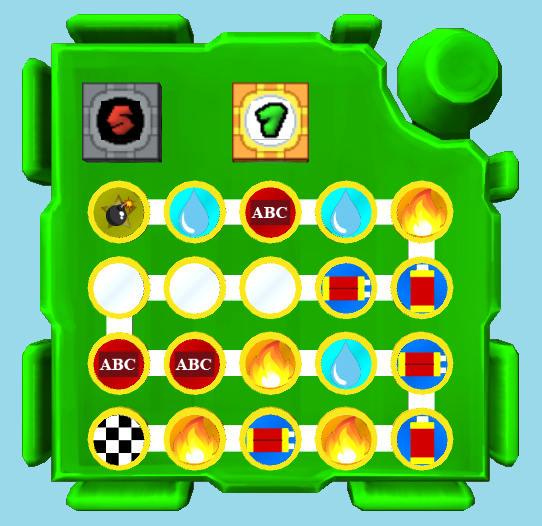
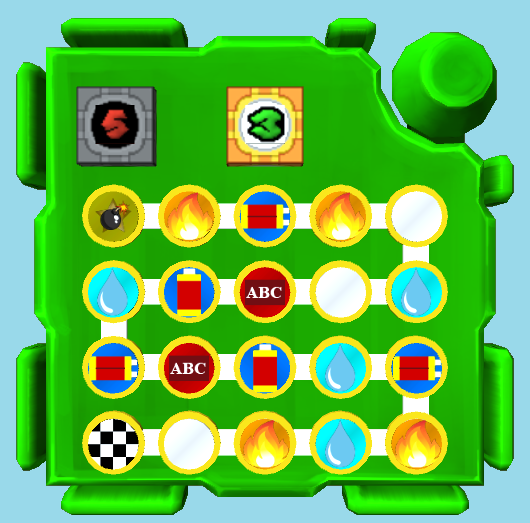
TP support / Blend unlit to spaces

diff --git a/Assets/PartyTime.cs b/Assets/PartyTime.cs
@@ -2,6 +2,7 @@
 using System;
 using System.Collections.Generic;
 using System.Linq;
+using System.Text.RegularExpressions;
 using UnityEngine;
 using KMBombInfoHelper;
 
@@ -15,28 +16,26 @@ public class PartyTime : MonoBehaviour {
 	public KMBombInfo BombInfo;
 	public KMAudio BombAudio;
 
-	public Texture2D[] diceNum = new Texture2D[7];
-	public Texture2D[] screenNum = new Texture2D[7];
-	public Texture2D[] spaceTexA = new Texture2D[0];
-	public Texture2D[] spaceTexB = new Texture2D[0];
+	public Texture2D[] diceNum = new Texture2D [7];
+	public Texture2D[] screenNum = new Texture2D [7];
+	public Texture2D[] spaceTexA = new Texture2D [0];
+	public Texture2D[] spaceTexB = new Texture2D [0];
 
-	int batCountD = 0;
-	int batCountAA = 0;
-	int indCount = 0;
-	bool landedBat = false;
-	bool reverseMove = false;
+	int batCountD, batCountAA, indCount;
+	bool landedBat, reverseMove;
 
-	int[] nowSpcTex = new int[20];
-	int[] isSpcT = new int[20];
+	int[] nowSpcTex = new int [20];
+	int[] isSpcT = new int [20];
 
 	int canRoll = 5;
 	bool ranDoNum = true;
-	int prevNumber = 0;
-	int nowSpace = 0;
-	int moveTimer = 0;
-	bool pressDice = false;
+	int prevNumber, nowSpace, moveTimer;
+	bool pressDice;
 
-	bool moduleSolved = false;
+	List<int> tpDie = new List<int> ();
+	List<int> tpSpaces = new List<int> ();
+
+	bool moduleSolved;
 
 	static int moduleIdCounter = 1;
 	int moduleId;
@@ -52,16 +51,16 @@ public class PartyTime : MonoBehaviour {
 		Debug.LogFormat (@"[Party Time #{0}] AA Battery spaces advance {1} spaces.", moduleId, Mathf.Clamp (batCountAA, 0, 6));
 		Debug.LogFormat (@"[Party Time #{0}] Indicator spaces regress {1} spaces.", moduleId, Mathf.Clamp (indCount, 0, 6));
 
-		Spaces [0].transform.GetChild (0).gameObject.GetComponent <Renderer> ().material.SetTexture ("_MainTex", spaceTexB [0]);
+		Spaces [0].transform.GetChild (0).GetComponent<Renderer> ().material.SetTexture ("_MainTex", spaceTexB [0]);
 		nowSpcTex [0] = 0;
-		Spaces [19].transform.GetChild (0).gameObject.GetComponent <Renderer> ().material.SetTexture ("_MainTex", spaceTexA [7]);
+		Spaces [19].transform.GetChild (0).GetComponent<Renderer> ().material.SetTexture ("_MainTex", spaceTexA [7]);
 		nowSpcTex [19] = 7;
 
-		int currSpcBatD = 0;
-		int currSpcBatAA = 0;
-		int currSpcInd = 0;
-		int currSpcWat = 0;
-		int currSpcFire = 0;
+		var currSpcBatD = 0;
+		var currSpcBatAA = 0;
+		var currSpcInd = 0;
+		var currSpcWat = 0;
+		var currSpcFire = 0;
 
 		for (int i = 1; i < Spaces.Length - 1; i++) {
 			int chooseTex = -1;
@@ -117,7 +116,7 @@ public class PartyTime : MonoBehaviour {
 				}
 			}
 
-			Spaces [i].transform.GetChild (0).gameObject.GetComponent <Renderer> ().material.SetTexture ("_MainTex", spaceTexA [chooseTex]);
+			Spaces [i].transform.GetChild (0).GetComponent<Renderer> ().material.SetTexture ("_MainTex", spaceTexA [chooseTex]);
 
 			nowSpcTex [i] = chooseTex;
 		}
@@ -125,17 +124,17 @@ public class PartyTime : MonoBehaviour {
 		Debug.LogFormat (@"[Party Time #{0}] There are {1} Water spaces.", moduleId, currSpcWat - (currSpcWat == 5 ? 1 : 0));
 		Debug.LogFormat (@"[Party Time #{0}] There are {1} Fire spaces.", moduleId, currSpcFire - (currSpcFire == 5 ? 1 : 0));
 
-		object[] logLetters = new object[21];
+		object[] logLetters = new object [21];
 
 		logLetters [0] = moduleId;
 
 		for (int i = 0; i < Spaces.Length; i++) {
 			isSpcT [i] = -1;
-			int leftSpc = i - 1;
-			int rightSpc = i + 1;
-			int calcSpc = (((i % 5) * 2) + 1);
-			int upSpc = i - calcSpc;
-			int downSpc = i + 10 - calcSpc;
+			var leftSpc = i - 1;
+			var rightSpc = i + 1;
+			var calcSpc = (((i % 5) * 2) + 1);
+			var upSpc = i - calcSpc;
+			var downSpc = i + 10 - calcSpc;
 
 			if (nowSpcTex [i] == 5) {
 				if ((currSpcFire >= 3 && currSpcWat < 3) || (nowSpcTex [leftSpc] == 2 || nowSpcTex [leftSpc] == 3) || (nowSpcTex [rightSpc] == 2 || nowSpcTex [rightSpc] == 3) || (nowSpcTex [Mathf.Clamp (upSpc, 0, 19)] == 2 || nowSpcTex [Mathf.Clamp (upSpc, 0, 19)] == 3) || (nowSpcTex [Mathf.Clamp (downSpc, 0, 19)] == 2 || nowSpcTex [Mathf.Clamp (downSpc, 0, 19)] == 3)) {
@@ -156,16 +155,11 @@ public class PartyTime : MonoBehaviour {
 			if (nowSpcTex [i] == 5 || nowSpcTex [i] == 6) {
 				Debug.LogFormat (@"[Party Time #{0}] Space #{1} is {2}.", moduleId, i, isSpcT [i] == 1 ? "correct" : "incorrect");
 			}
-
-			/*string[] spcLetter = new string[7] { "S", "B", "A", "I", "W", "F", "G", "/X", "/N", "/Y" };
-			 
-			logLetters [i + 1] = spcLetters [nowSpcTex [i]] + spcLetters [isSpcT [i] + 8];*/
 		}
-
-		//Debug.LogFormat (@"[Party Time #{0}]\n ({1})-({2})-({3})-({4})-({5})\n({10})-({9})-({8})-({7})-({6})\n({11})-({12})-({13})-({14})-({15})\n({20})-({19})-({18})-({17})-({16})", logLetters);
 
 		Dice.OnInteract += delegate() {
 			onDicePress ();
+
 			return false;
 		};
 
@@ -174,6 +168,7 @@ public class PartyTime : MonoBehaviour {
 
 			Spaces [i].OnInteract += delegate () {
 				onSpacePress (j);
+
 				return false;
 			};
 		}
@@ -188,8 +183,7 @@ public class PartyTime : MonoBehaviour {
 			} while (rngNumber == prevNumber);
 
 			prevNumber = rngNumber;
-
-			Dice.transform.GetChild (0).gameObject.GetComponent <Renderer> ().material.SetTexture ("_MainTex", diceNum [rngNumber]);
+			Dice.transform.GetChild (0).GetComponent<Renderer> ().material.SetTexture ("_MainTex", diceNum [rngNumber]);
 		} else {
 			if (moveTimer == 20) {
 				if (prevNumber == 0) {
@@ -235,12 +229,12 @@ public class PartyTime : MonoBehaviour {
 						break;
 					}
 
-					Dice.transform.GetChild (0).gameObject.GetComponent <Renderer> ().material.SetTexture ("_MainTex", diceNum [prevNumber]);
+					Dice.transform.GetChild (0).GetComponent<Renderer> ().material.SetTexture ("_MainTex", diceNum [prevNumber]);
 				} else {
 					if (nowSpace < 19) {
-						Spaces [nowSpace].transform.GetChild (0).gameObject.GetComponent <Renderer> ().material.SetTexture ("_MainTex", spaceTexA [nowSpcTex [nowSpace]]);
-						nowSpace += reverseMove == false ? 1 : -1;							
-						Spaces [nowSpace].transform.GetChild (0).gameObject.GetComponent <Renderer> ().material.SetTexture ("_MainTex", spaceTexB [nowSpcTex [nowSpace]]);
+						Spaces [nowSpace].transform.GetChild (0).GetComponent<Renderer> ().material.SetTexture ("_MainTex", spaceTexA [nowSpcTex [nowSpace]]);
+						nowSpace += (!reverseMove) ? 1 : -1;
+						Spaces [nowSpace].transform.GetChild (0).GetComponent<Renderer> ().material.SetTexture ("_MainTex", spaceTexB [nowSpcTex [nowSpace]]);
 
 						if (nowSpace != 0) {
 							prevNumber--;
@@ -250,7 +244,7 @@ public class PartyTime : MonoBehaviour {
 							reverseMove = false;
 						}
 
-						Dice.transform.GetChild (0).gameObject.GetComponent <Renderer> ().material.SetTexture ("_MainTex", diceNum [prevNumber]);
+						Dice.transform.GetChild (0).GetComponent<Renderer> ().material.SetTexture ("_MainTex", diceNum [prevNumber]);
 
 						if (nowSpcTex [nowSpace] != 5 && nowSpcTex [nowSpace] != 6) {
 							moveTimer = 0;
@@ -275,18 +269,28 @@ public class PartyTime : MonoBehaviour {
 				Debug.LogFormat (@"[Party Time #{0}] Module solved!", moduleId);
 				moduleSolved = true;
 			}
+		} else {
+			if (tpDie.Contains (nowSpace)) {
+				onDicePress ();
+				tpDie.Remove (nowSpace);
+			}
+
+			if (tpSpaces.Contains (nowSpace)) {
+				onSpacePress (nowSpace);
+				tpSpaces.Remove (nowSpace);
+			}
 		}
 	}
 
 	void stopMoving () {
 		if (nowSpace != 19) {
 			if (canRoll == 0) {
-				Spaces [nowSpace].transform.GetChild (0).gameObject.GetComponent <Renderer> ().material.SetTexture ("_MainTex", spaceTexA [nowSpcTex [nowSpace]]);
+				Spaces [nowSpace].transform.GetChild (0).GetComponent<Renderer> ().material.SetTexture ("_MainTex", spaceTexA [nowSpcTex [nowSpace]]);
 				nowSpace = 0;
-				Spaces [nowSpace].transform.GetChild (0).gameObject.GetComponent <Renderer> ().material.SetTexture ("_MainTex", spaceTexB [nowSpcTex [nowSpace]]);
+				Spaces [nowSpace].transform.GetChild (0).GetComponent<Renderer> ().material.SetTexture ("_MainTex", spaceTexB [nowSpcTex [nowSpace]]);
 
 				canRoll = 5;
-				Screen.transform.GetChild (0).gameObject.GetComponent <Renderer> ().material.SetTexture ("_MainTex", screenNum [canRoll]);
+				Screen.transform.GetChild (0).GetComponent<Renderer> ().material.SetTexture ("_MainTex", screenNum [canRoll]);
 			}
 
 			ranDoNum = true;
@@ -297,7 +301,7 @@ public class PartyTime : MonoBehaviour {
 
 	void onDicePress () {
 		BombAudio.PlayGameSoundAtTransform (KMSoundOverride.SoundEffect.ButtonPress, transform);
-		GetComponent <KMSelectable> ().AddInteractionPunch ();
+		GetComponent<KMSelectable> ().AddInteractionPunch ();
 
 		if (moduleSolved) {
 			return;
@@ -309,7 +313,7 @@ public class PartyTime : MonoBehaviour {
 			if (canRoll > 0) {
 				canRoll--;
 
-				Screen.transform.GetChild (0).gameObject.GetComponent <Renderer> ().material.SetTexture ("_MainTex", screenNum [canRoll]);
+				Screen.transform.GetChild (0).GetComponent<Renderer> ().material.SetTexture ("_MainTex", screenNum [canRoll]);
 			}
 
 			ranDoNum = false;
@@ -317,30 +321,30 @@ public class PartyTime : MonoBehaviour {
 			if (moveTimer == 21 && pressDice) {
 				if (isSpcT [nowSpace] == 0) {
 					if (nowSpcTex [nowSpace] == 5) {
-						Spaces [nowSpace].transform.GetChild (0).gameObject.GetComponent <Renderer> ().material.SetTexture ("_MainTex", spaceTexB [8]);
+						Spaces [nowSpace].transform.GetChild (0).GetComponent<Renderer> ().material.SetTexture ("_MainTex", spaceTexB [8]);
 						nowSpcTex [nowSpace] = 8;
 					} else {
 						if (nowSpcTex [nowSpace] == 6) {
-							Spaces [nowSpace].transform.GetChild (0).gameObject.GetComponent <Renderer> ().material.SetTexture ("_MainTex", spaceTexB [10]);
+							Spaces [nowSpace].transform.GetChild (0).GetComponent<Renderer> ().material.SetTexture ("_MainTex", spaceTexB [10]);
 							nowSpcTex [nowSpace] = 10;
 						}
 					}
 
-					BombAudio.PlaySoundAtTransform ("SoundCorrect", this.transform);
-					Debug.LogFormat (@"[Party Time #{0}] You pressed the dice when space #{1} was incorrect, which is correct.", moduleId, nowSpace);
+					BombAudio.PlaySoundAtTransform ("SoundCorrect", transform);
+					Debug.LogFormat (@"[Party Time #{0}] You pressed the die when space #{1} was incorrect, which is correct.", moduleId, nowSpace);
 				} else {
 					if (nowSpcTex [nowSpace] == 5) {
-						Spaces [nowSpace].transform.GetChild (0).gameObject.GetComponent <Renderer> ().material.SetTexture ("_MainTex", spaceTexB [9]);
+						Spaces [nowSpace].transform.GetChild (0).GetComponent<Renderer> ().material.SetTexture ("_MainTex", spaceTexB [9]);
 						nowSpcTex [nowSpace] = 9;
 					} else {
 						if (nowSpcTex [nowSpace] == 6) {
-							Spaces [nowSpace].transform.GetChild (0).gameObject.GetComponent <Renderer> ().material.SetTexture ("_MainTex", spaceTexB [11]);
+							Spaces [nowSpace].transform.GetChild (0).GetComponent<Renderer> ().material.SetTexture ("_MainTex", spaceTexB [11]);
 							nowSpcTex [nowSpace] = 11;
 						}
 					}
 
 					BombModule.HandleStrike ();
-					Debug.LogFormat (@"[Party Time #{0}] You pressed the dice when space #{1} was correct, which is incorrect.", moduleId, nowSpace);
+					Debug.LogFormat (@"[Party Time #{0}] You pressed the die when space #{1} was correct, which is incorrect.", moduleId, nowSpace);
 				}
 
 				moveTimer = 0;
@@ -353,28 +357,28 @@ public class PartyTime : MonoBehaviour {
 		if (nowSpace == spacePressed && (nowSpcTex [nowSpace] == 5 || nowSpcTex [nowSpace] == 6)) {
 			if (isSpcT [nowSpace] != -1) {
 				BombAudio.PlayGameSoundAtTransform (KMSoundOverride.SoundEffect.ButtonPress, transform);
-				GetComponent <KMSelectable> ().AddInteractionPunch ();
+				GetComponent<KMSelectable> ().AddInteractionPunch ();
 
 				if (isSpcT [nowSpace] == 1) {
 					if (nowSpcTex [nowSpace] == 5) {
-						Spaces [nowSpace].transform.GetChild (0).gameObject.GetComponent <Renderer> ().material.SetTexture ("_MainTex", spaceTexB [8]);
+						Spaces [nowSpace].transform.GetChild (0).GetComponent<Renderer> ().material.SetTexture ("_MainTex", spaceTexB [8]);
 						nowSpcTex [nowSpace] = 8;
 					} else {
 						if (nowSpcTex [nowSpace] == 6) {
-							Spaces [nowSpace].transform.GetChild (0).gameObject.GetComponent <Renderer> ().material.SetTexture ("_MainTex", spaceTexB [10]);
+							Spaces [nowSpace].transform.GetChild (0).GetComponent<Renderer> ().material.SetTexture ("_MainTex", spaceTexB [10]);
 							nowSpcTex [nowSpace] = 10;
 						}
 					}
 
-					BombAudio.PlaySoundAtTransform ("SoundCorrect", this.transform);
+					BombAudio.PlaySoundAtTransform ("SoundCorrect", transform);
 					Debug.LogFormat (@"[Party Time #{0}] You pressed space #{1} when it was correct, which is correct.", moduleId, spacePressed);
 				} else {
 					if (nowSpcTex [nowSpace] == 5) {
-						Spaces [nowSpace].transform.GetChild (0).gameObject.GetComponent <Renderer> ().material.SetTexture ("_MainTex", spaceTexB [9]);
+						Spaces [nowSpace].transform.GetChild (0).GetComponent<Renderer> ().material.SetTexture ("_MainTex", spaceTexB [9]);
 						nowSpcTex [nowSpace] = 9;
 					} else {
 						if (nowSpcTex [nowSpace] == 6) {
-							Spaces [nowSpace].transform.GetChild (0).gameObject.GetComponent <Renderer> ().material.SetTexture ("_MainTex", spaceTexB [11]);
+							Spaces [nowSpace].transform.GetChild (0).GetComponent<Renderer> ().material.SetTexture ("_MainTex", spaceTexB [11]);
 							nowSpcTex [nowSpace] = 11;
 						}
 					}
@@ -386,5 +390,49 @@ public class PartyTime : MonoBehaviour {
 				moveTimer = 0;
 			}
 		}
+	}
+
+	#pragma warning disable 414
+		private readonly string TwitchHelpMessage = @"!{0} roll (rolls the die) | !{0} die 1 2 3... (presses the die when you land on the specified spaces [Start space is 0]) | !{0} space 1 2 3... (presses the specified spaces when you land on them [Start space is 0])";
+	#pragma warning restore 414
+
+	KMSelectable[] ProcessTwitchCommand (string command) {
+		command = command.ToLowerInvariant ().Trim ();
+
+		if (command.Equals ("roll")) {
+			return new [] { Dice };
+		}
+
+		if (Regex.IsMatch (command, @"^die +[0-9^, |&]{1,}$")) {
+			tpDie.Clear ();
+			command = command.Substring (4).Trim ();
+
+			var spaces = command.Split (new [] { ',', ' ', '|', '&' }, System.StringSplitOptions.RemoveEmptyEntries);
+
+			for (int i = 0; i < spaces.Length; i++) {
+				if (Regex.IsMatch (spaces [i], @"^[0-9]{1,2}$")) {
+					tpDie.Add (int.Parse (spaces [i].ToString ()));
+				}
+			}
+
+			return new [] { Spaces [0] };
+		}
+
+		if (Regex.IsMatch (command, @"^space +[0-9^, |&]{1,}$")) {
+			tpSpaces.Clear ();
+			command = command.Substring (6).Trim ();
+
+			var spaces = command.Split (new [] { ',', ' ', '|', '&' }, System.StringSplitOptions.RemoveEmptyEntries);
+
+			for (int i = 0; i < spaces.Length; i++) {
+				if (Regex.IsMatch (spaces [i], @"^[0-9]{1,2}$")) {
+					tpSpaces.Add (int.Parse (spaces [i].ToString ()));
+				}
+			}
+
+			return new [] { Spaces [0] };
+		}
+
+		return null;
 	}
 }
